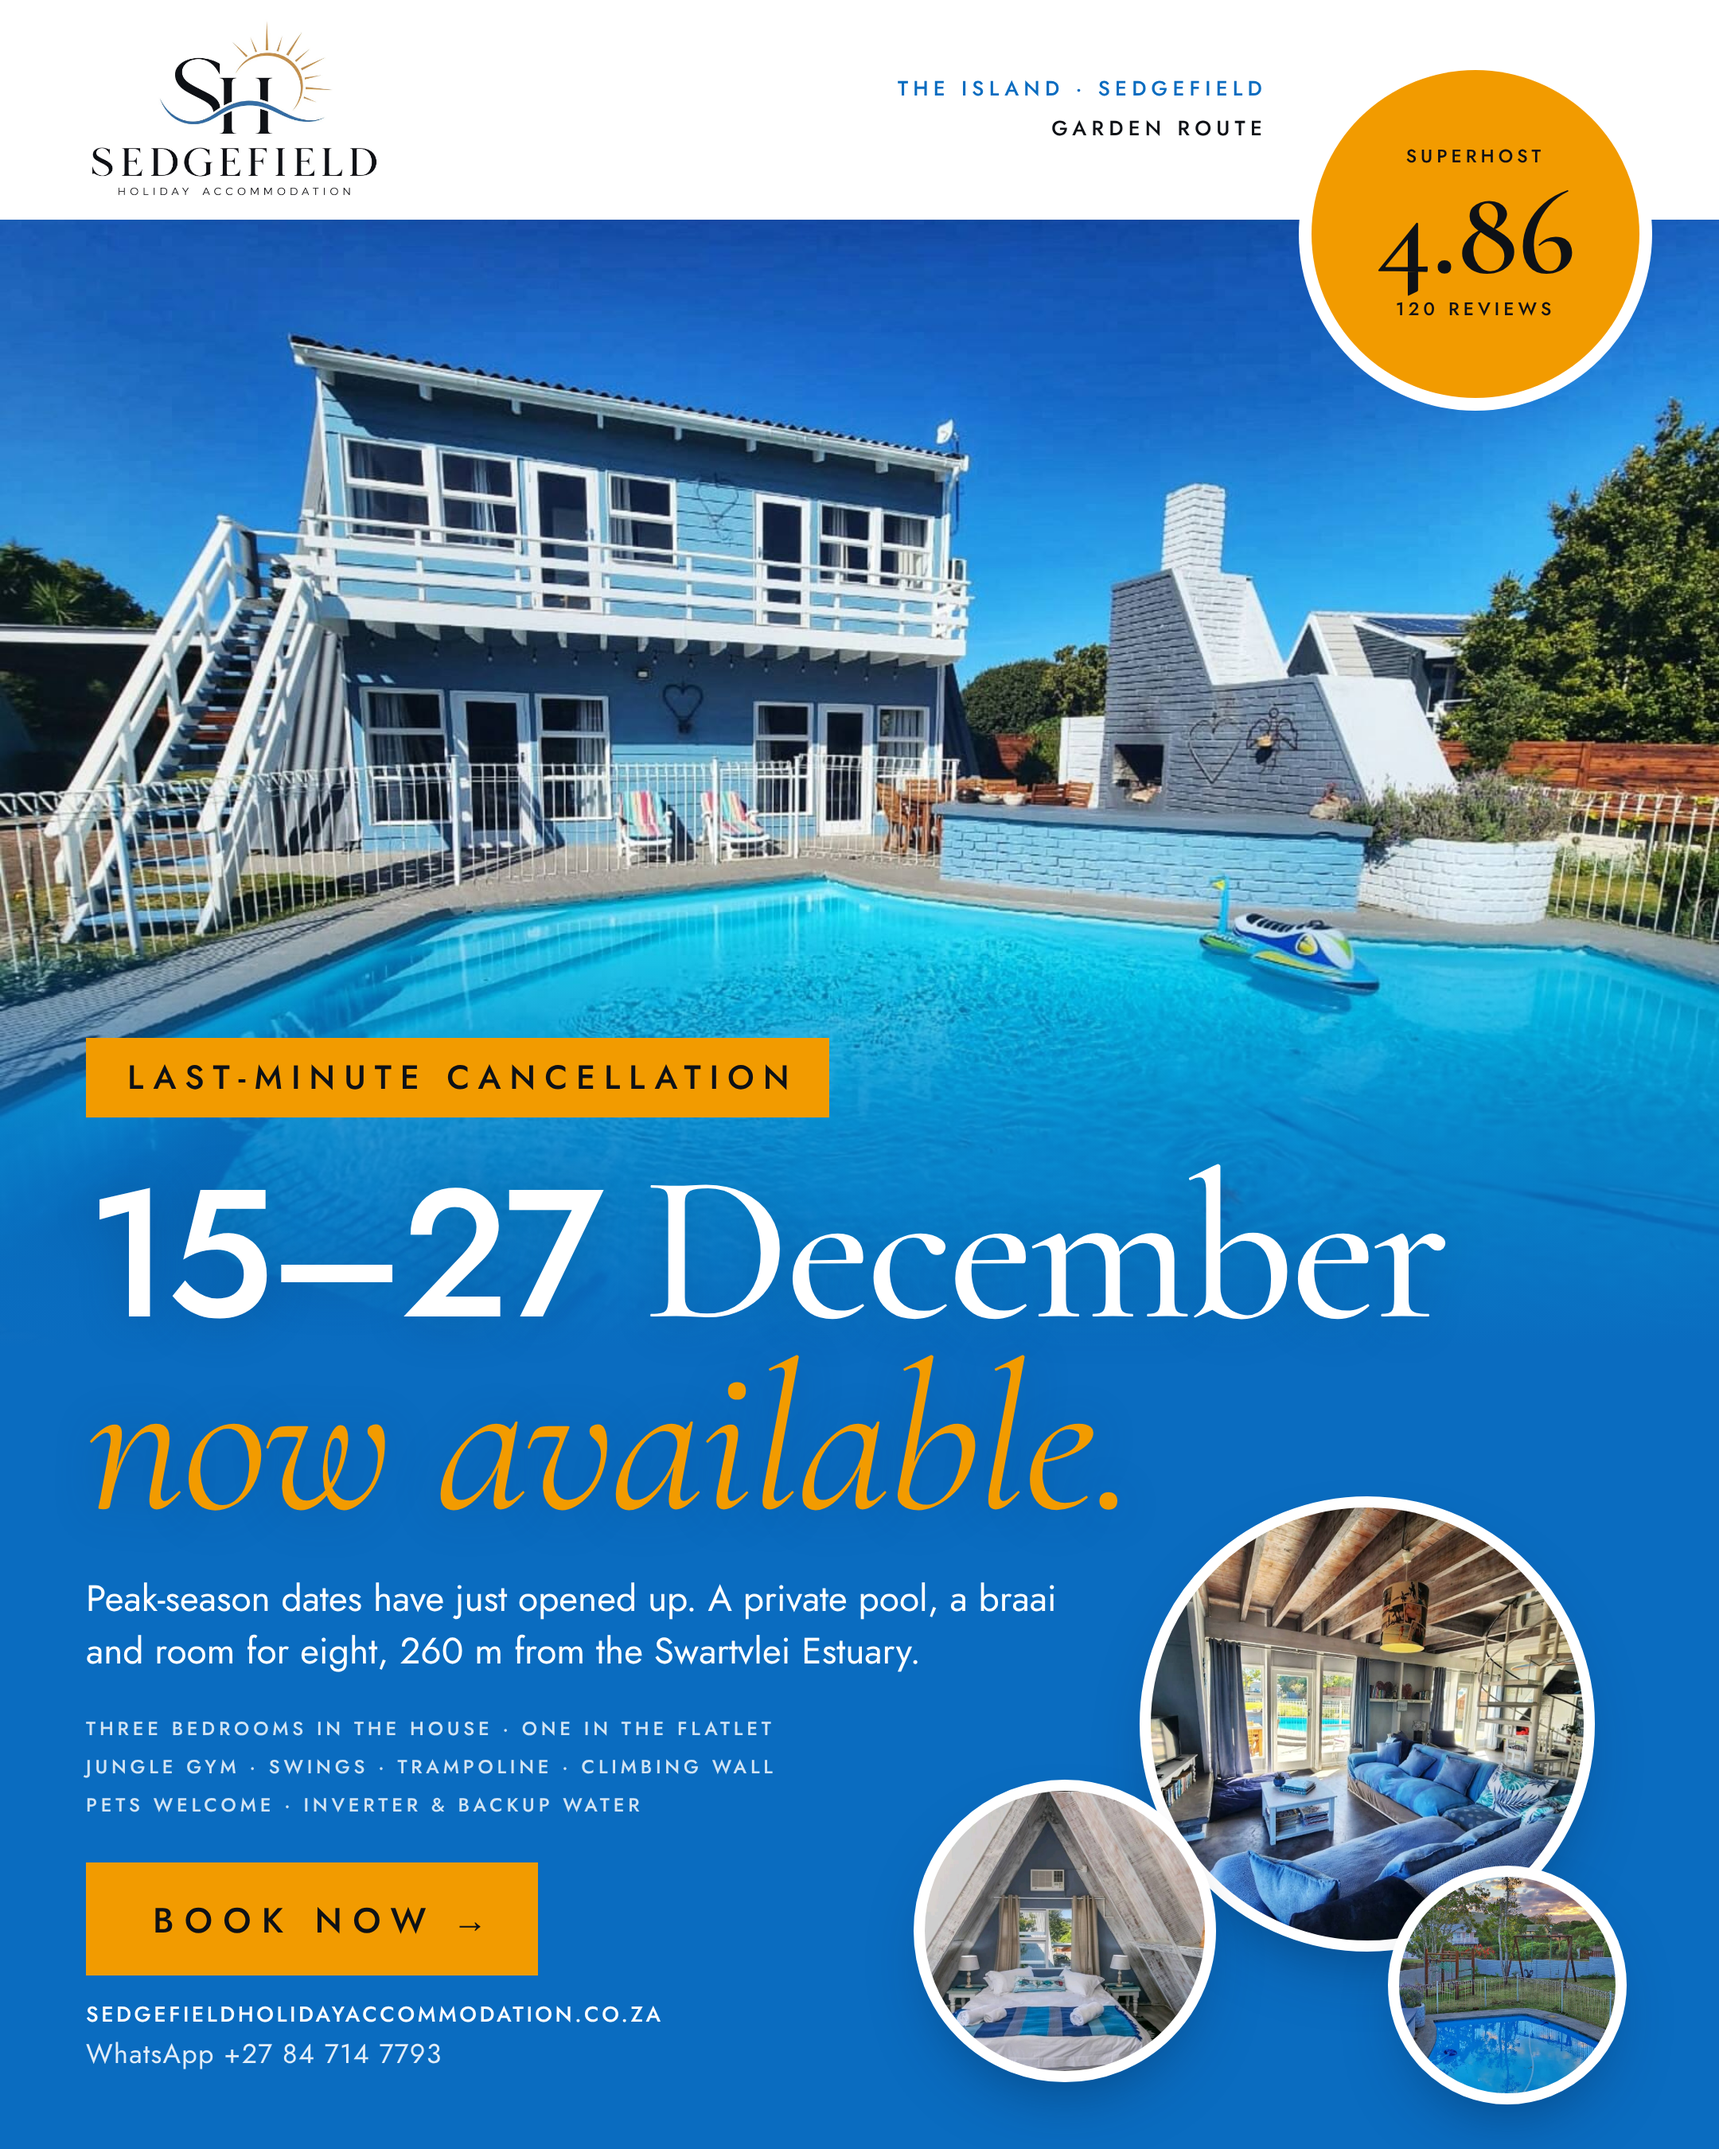
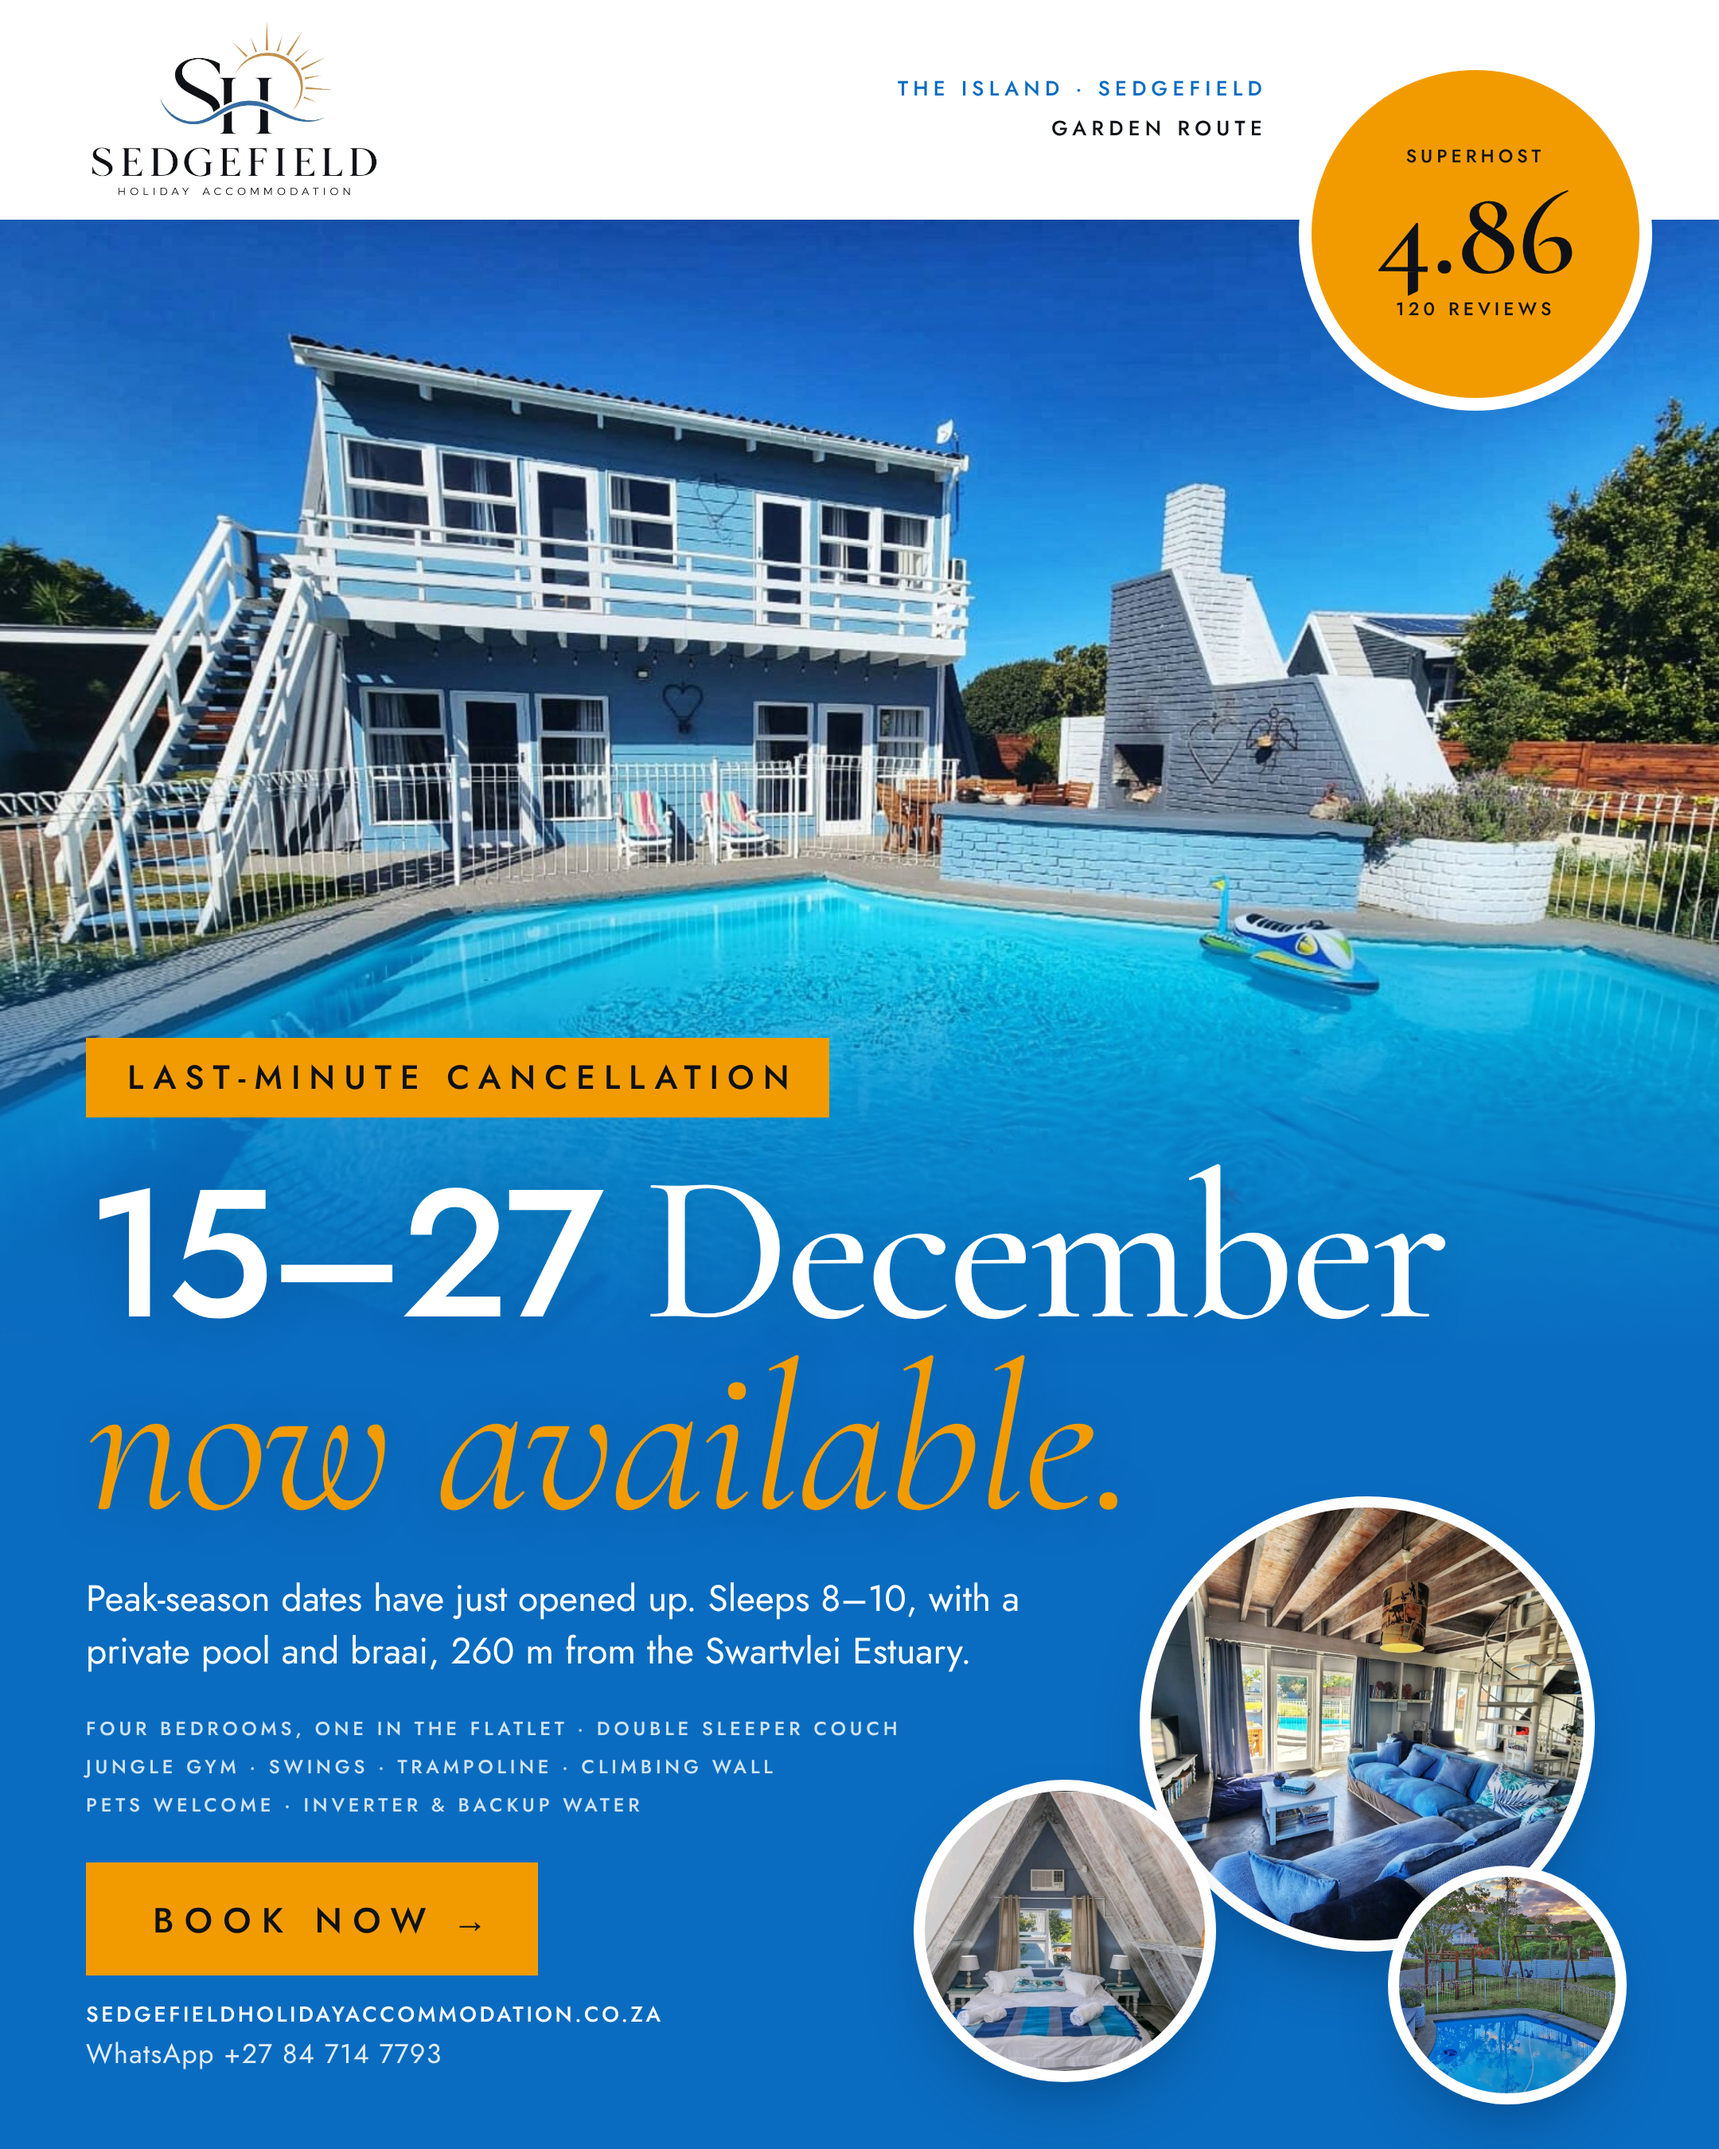
Advert: sleeps 8-10 with double sleeper couch
Claude-Session: https://claude.ai/code/session_018nYbKAdgBCf6cy6bucxAdr

Changed region(s): [[0.062, 0.7156, 0.5894, 0.8089]]

diff --git a/adverts/book-now/advert.html b/adverts/book-now/advert.html
@@ -34,7 +34,7 @@ h1{font:500 132px/.9 Cormorant,Georgia,serif;letter-spacing:-.02em;white-space:n
 h1 span{font:500 .86em/1 Jost,Arial,sans-serif;letter-spacing:-.03em}
 h1 em{font-style:italic;font-weight:400;color:var(--orange);letter-spacing:-.01em}
 .intro{font:400 23px/1.42 Jost;margin-top:24px;width:650px}
-.feat{margin-top:20px;width:510px;font-size:12px;letter-spacing:.2em;line-height:2;color:#ffffffd0}
+.feat{margin-top:20px;width:640px;white-space:nowrap;font-size:12px;letter-spacing:.2em;line-height:2;color:#ffffffd0}
 .btn{display:inline-block;margin-top:24px;background:var(--orange);color:var(--ink);font:500 22px/1 Jost;letter-spacing:.3em;text-transform:uppercase;padding:25px 32px 24px 42px}
 .btn b{font-weight:500;margin-left:10px;letter-spacing:0}
 .contact{margin-top:18px;font:500 13.5px/1 Jost;letter-spacing:.13em;text-transform:uppercase}
@@ -58,8 +58,8 @@ h1 em{font-style:italic;font-weight:400;color:var(--orange);letter-spacing:-.01e
   <div class="copy">
     <div class="label tag">Last-minute cancellation</div>
     <h1><span>15–27</span> December<br><em>now available.</em></h1>
-    <p class="intro">Peak-season dates have just opened up. A private pool, a braai and room for eight, 260&nbsp;m from the Swartvlei Estuary.</p>
-    <p class="label feat">Three bedrooms in the house · One in the flatlet<br>Jungle gym · Swings · Trampoline · Climbing wall<br>Pets welcome · Inverter &amp; backup water</p>
+    <p class="intro">Peak-season dates have just opened up. Sleeps 8–10, with a private pool and braai, 260&nbsp;m from the Swartvlei Estuary.</p>
+    <p class="label feat">Four bedrooms, one in the flatlet · Double sleeper couch<br>Jungle gym · Swings · Trampoline · Climbing wall<br>Pets welcome · Inverter &amp; backup water</p>
     <span class="btn">Book now<b>→</b></span>
     <p class="contact">sedgefieldholidayaccommodation.co.za</p>
     <p class="contact">WhatsApp +27 84 714 7793</p>
